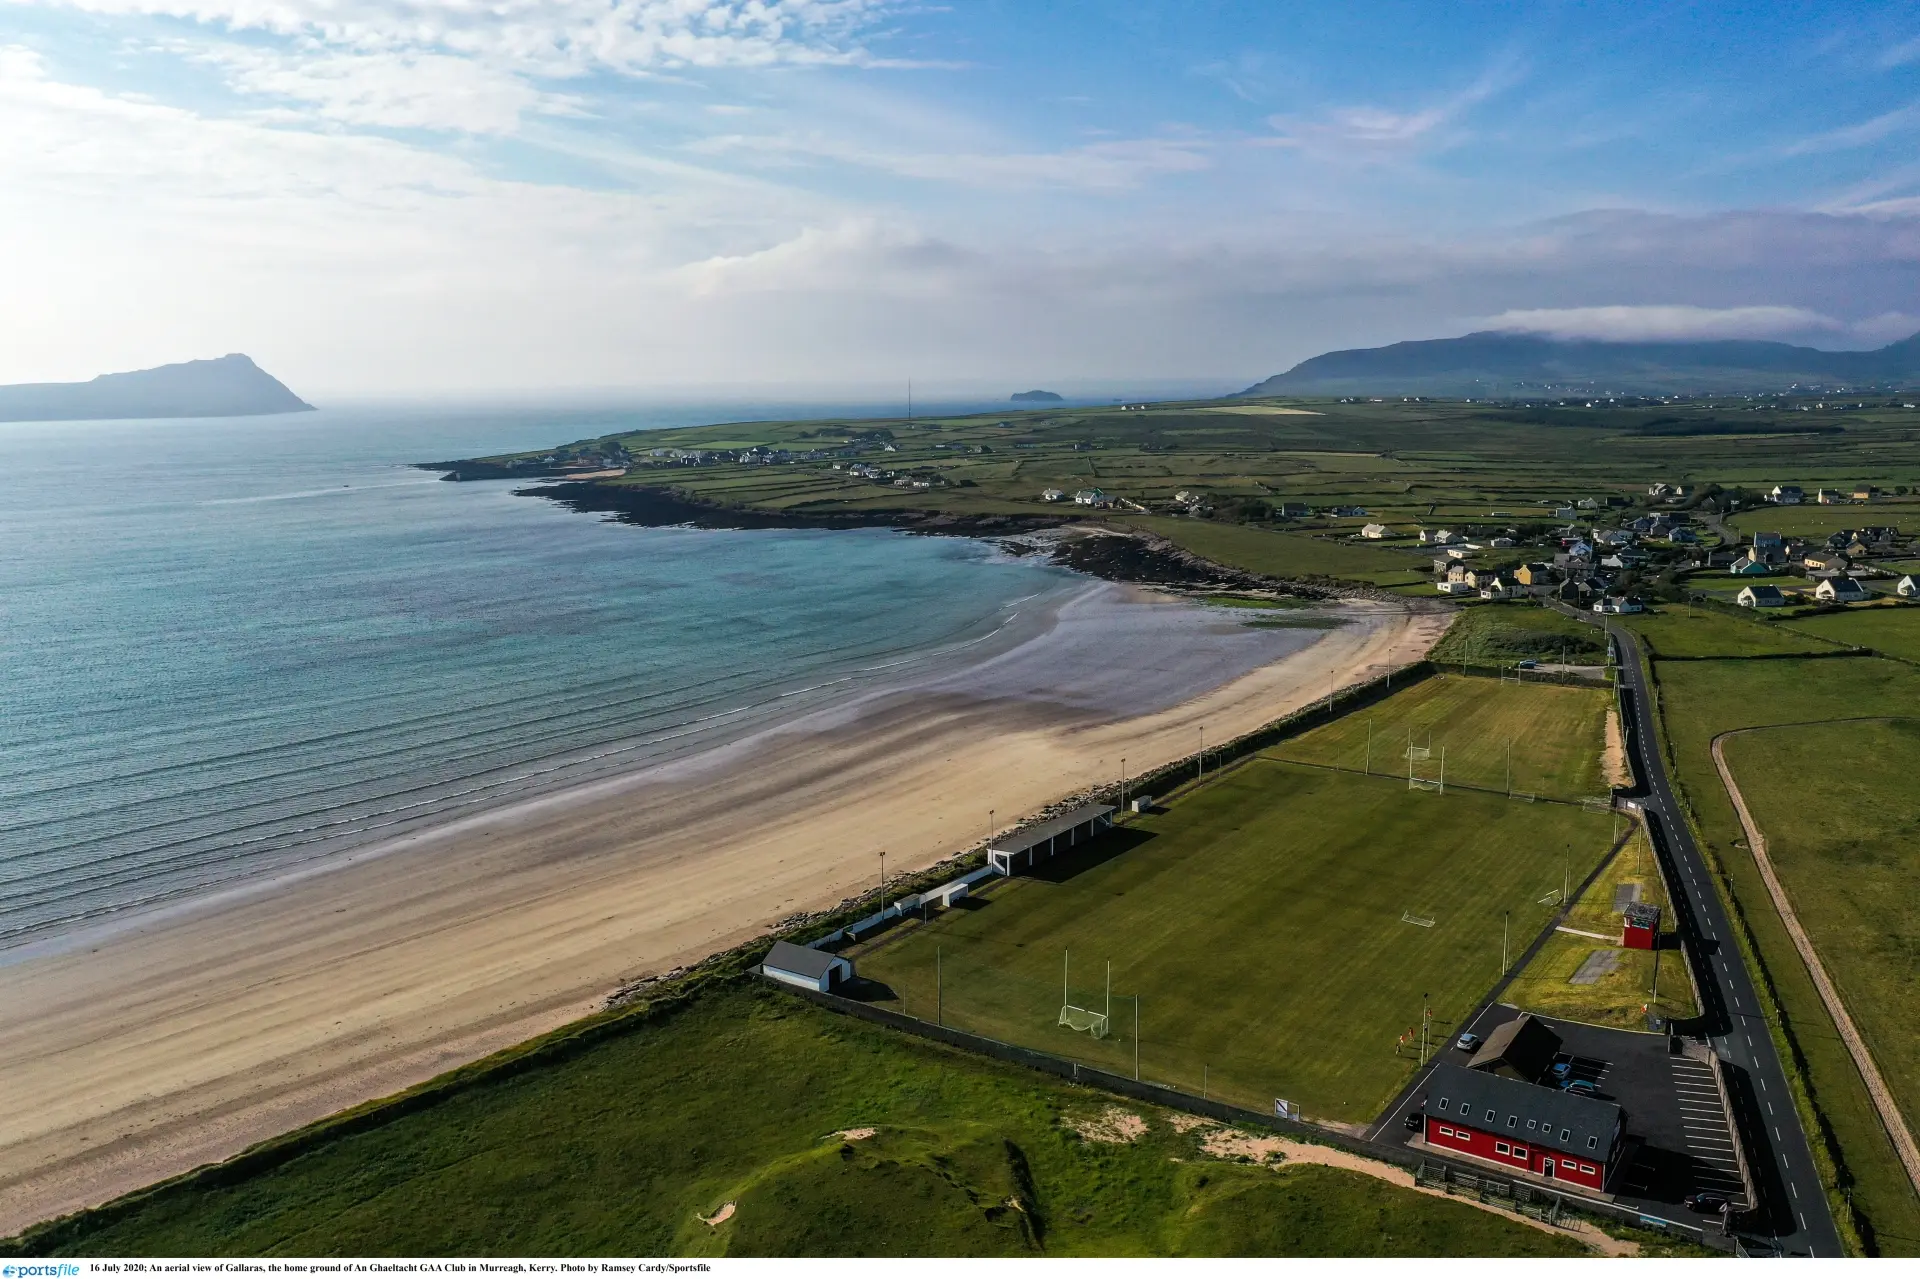
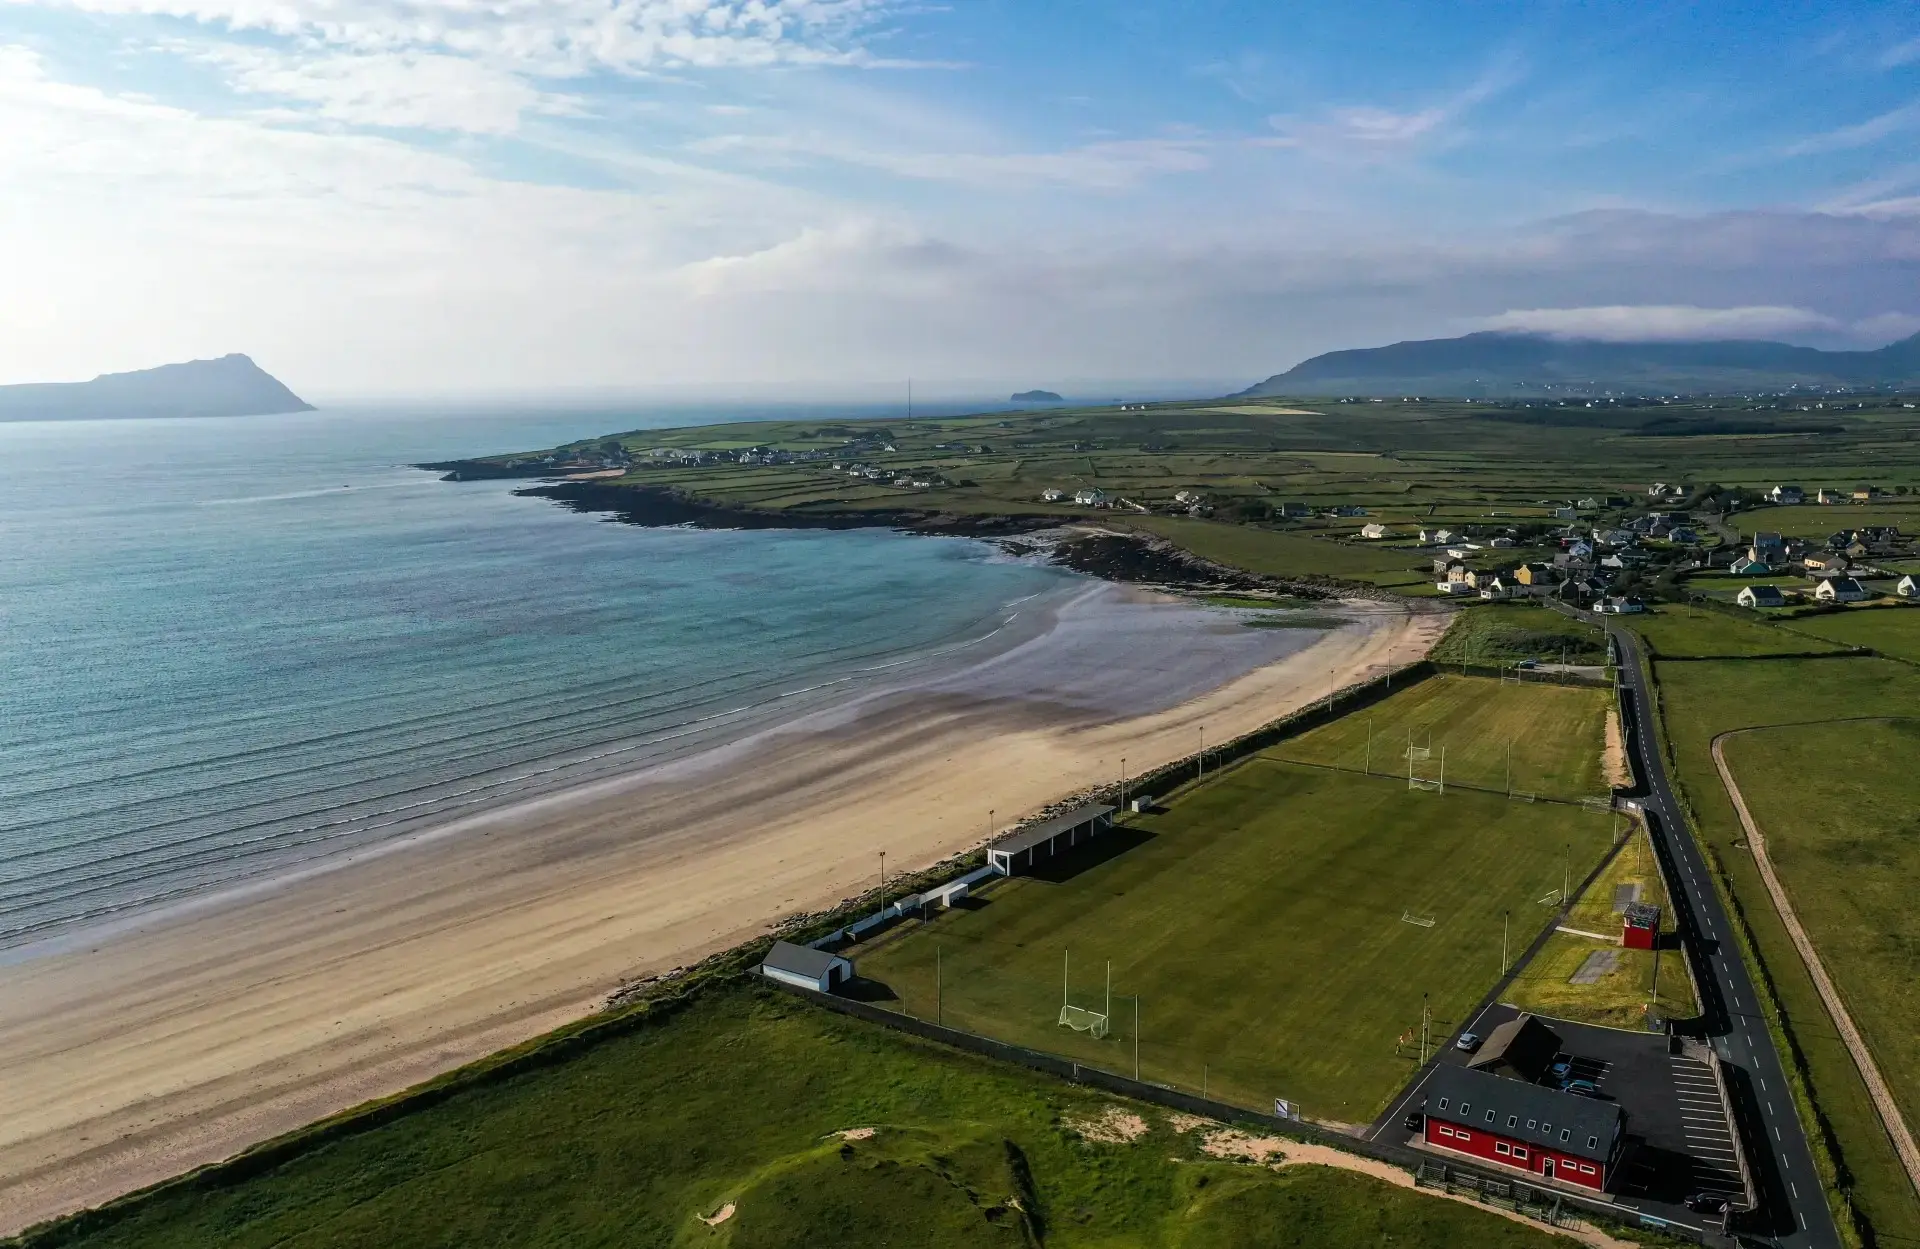
Update path for image & add new webp image

diff --git a/heritage.html b/heritage.html
@@ -291,7 +291,7 @@
         </article>
 
         <article class="timeline-card">
-          <div class="timeline-image-wrap"><img class="timeline-image" src="assets/gaa-pitches/croke-park.jpg" alt="Croke Park" loading="lazy"></div>
+          <div class="timeline-image-wrap"><img class="timeline-image" src="assets/gaa-pitches/croke-park.webp" alt="Croke Park" loading="lazy"></div>
           <div class="timeline-content"><div class="timeline-date">1950s-2000s</div><h3 class="timeline-title">The Home of Gaelic Games</h3><p class="timeline-description">From All-Ireland finals to historic moments that shaped the GAA, Croke Park became the heart of hurling and Gaelic games. Its famous stands honour figures such as Michael Hogan and Michael Cusack, linking every generation of players and supporters to the sport's rich heritage.</p></div>
         </article>
 